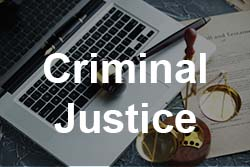
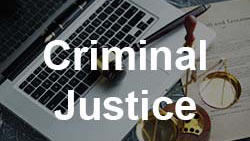
crop program iamges, remove button tags from program links

diff --git a/programs.html b/programs.html
@@ -16,22 +16,18 @@
     ::-webkit-scrollbar {
       width: 10px;
     }
-    
     /* Track */
     ::-webkit-scrollbar-track {
       background: #f1f1f1; 
     }
-     
     /* Handle */
     ::-webkit-scrollbar-thumb {
       background: #888; 
     }
-    
     /* Handle on hover */
     ::-webkit-scrollbar-thumb:hover {
       background: #555; 
     }
-    
     .programs_buttons::before{
   content: "";
   position: absolute;
@@ -55,13 +51,11 @@ background: -moz-linear-gradient(top,  #ffffff 35%, #c16e70 100%); /* FF3.6-15 *
 background: -webkit-linear-gradient(top,  #ffffff 35%,#c16e70 100%); /* Chrome10-25,Safari5.1-6 */
 background: linear-gradient(to bottom,  #ffffff 35%,#c16e70 100%); /* W3C, IE10+, FF16+, Chrome26+, Opera12+, Safari7+ */
 filter: progid:DXImageTransform.Microsoft.gradient( startColorstr='#ffffff', endColorstr='#c16e70',GradientType=0 ); /* IE6-9 */
-
   -webkit-transform: scaleX(1);
   transform: scaleX(1);
   transition: -webkit-transform .6s cubic-bezier(.08, .35, .13, 1.02), opacity .4s;
   transition: transform .6s cubic-bezier(.08, .35, .13, 1.02), opacity;
 }
-
 .programs_buttons {
   font-family: "Open Sans", sans-serif;
   font-size: 13px;
@@ -78,25 +72,13 @@ filter: progid:DXImageTransform.Microsoft.gradient( startColorstr='#ffffff', end
   -webkit-user-select: none;
   touch-action: manipulation;
 }
-
-
 .programs_buttons:active {
   box-shadow: 0px 0px 0px 0px;
   top: 5px;
   left: 5px;
 }
-
-
-
-
-
 </style>
-
-    
-    
 </head>
-
-
 <body>
   <header id="masthead">   
     <img src="img/students.jpg" alt="Welcome to the library" class="hero">
@@ -151,110 +133,92 @@ filter: progid:DXImageTransform.Microsoft.gradient( startColorstr='#ffffff', end
   
 
   <dl class="tabs pill">
-    
-   
-    <button class="programs_buttons">
-      <a href="#account">
+ <dd class="programs_buttons">
+    <a href="#account" >
         Accounting Administration/Business Administration
       </a>
-    </button>
-
-    <button class="programs_buttons">
-      <a href="#cad">
+</dd>
+<dd class="programs_buttons">
+      <a href="#cad" >
         Computer Aided Drafting
       </a>
-    </button>
-
-    <button class="programs_buttons">
-      <a href="#computerp">
+    </dd>
+    <dd class="programs_buttons">
+    <a href="#computerp">
         Computer Programming/Information Technology
-      </a>
-    </button>
-    
-    <button class="programs_buttons">
-      <a href="#crimjust">
+      </a></dd>
+  <dd class="programs_buttons">
+      <a href="#crimjust" >
         Criminal Justice
       </a>
-    </button>
+    </dd>
 
-    <button class="programs_buttons">
-      <a href="#culinary">
+    <dd class="programs_buttons">
+      <a href="#culinary" >
         Culinary Arts
       </a>
-    </button>
-
-    <button class="programs_buttons">
-      <a href="#electronics">
+ </dd>
+<dd class="programs_buttons">
+   
+      <a href="#electronics" >
         Electronics
       </a>
-    </button>
-    
-
-    <button class="programs_buttons">
-      <a href="#english">
+</dd>
+<dd class="programs_buttons">
+      <a href="#english" >
         English
       </a>
-    </button>
-
-    <button class="programs_buttons">
-      <a href="#gdesign">
+ </dd>
+ <dd class="programs_buttons">
+      <a href="#gdesign" >
         Graphic Design
       </a>
-    </button>
-
-    <button class="programs_buttons">
-      <a href="#host">
+  </dd>
+  <dd class="programs_buttons">
+      <a href="#host" >
         Hospitality/Travel
       </a>
-    </button>
-
-    <button class="programs_buttons">
-      <a href="#HVAC">
+    </dd>
+    <dd class="programs_buttons">
+      <a href="#HVAC" >
         HVAC
       </a>
-    </button>
-
-    <button class="programs_buttons">
-      <a href="#math">
+    </dd>
+    <dd class="programs_buttons">
+      <a href="#math" >
         Mathematics
       </a>
-    </button>
-
-    <button class="programs_buttons">
+    </dd>
+    <dd class="programs_buttons">
       <a href="#med">
         Medical/Nursing
       </a>
-    </button>
-
-    <button class="programs_buttons">
+    </dd>
+    <dd class="programs_buttons">
       <a href="#mm">
         Multimedia
       </a>
-    </button>
-
-    <button class="programs_buttons">
-      <a href="#smartbt">
+    </dd>
+    <dd class="programs_buttons">
+      <a href="#smartbt" >
         Smart Building Technology
       </a>
-    </button>
-  
-    <button class="programs_buttons">
-      <a href="#massage">
+    </dd>
+    <dd class="programs_buttons">
+      <a href="#massage" >
         Therapeutic Massage
       </a>
-    </button>
-
-    <button class="programs_buttons">
-      <a href="#weld">
+    </dd>
+    <dd class="programs_buttons">
+      <a href="#weld" >
         Welding
       </a>
-    </button>
-  
-    <button class="programs_buttons">
-      <a href="#gen">
+    </dd>
+    <dd class="programs_buttons">
+      <a href="#gen" >
         General Interest
       </a>
-    </button>
+   </dd>
     
   </dl>
 

diff --git a/css/style.css b/css/style.css
@@ -475,15 +475,19 @@ font-style: italic;
 			margin-bottom:1rem;
 		}
 		.programs_buttons{
-			margin-bottom:1rem;
+			margin:1rem;
 			/* Permalink - use to edit and share this gradient: https://colorzilla.com/gradient-editor/#00588e+1,ffffff+42,ffffff+42,ffffff+53,ffffff+68 */
 background: #00588e; /* Old browsers */
 background: -moz-linear-gradient(top,  #00588e 1%, #ffffff 42%, #ffffff 42%, #ffffff 53%, #ffffff 68%); /* FF3.6-15 */
 background: -webkit-linear-gradient(top,  #00588e 1%,#ffffff 42%,#ffffff 42%,#ffffff 53%,#ffffff 68%); /* Chrome10-25,Safari5.1-6 */
 background: linear-gradient(to bottom,  #00588e 1%,#ffffff 42%,#ffffff 42%,#ffffff 53%,#ffffff 68%); /* W3C, IE10+, FF16+, Chrome26+, Opera12+, Safari7+ */
 filter: progid:DXImageTransform.Microsoft.gradient( startColorstr='#00588e', endColorstr='#ffffff',GradientType=0 ); /* IE6-9 */
-			
+		
 		}
+		.programs_button a:hover{
+			background-color:#C16E70 !important;
+		}
+
 		.tabs.pill{
 			text-align:center;
 			margin:auto;
@@ -504,7 +508,7 @@ dd {
 .tabs.pill dd, .tabs.pill li {
 margin-right: 10px;
 }
-dl.tabs.pill>dd.active a, dl.tabs.pill>dd.active:hover a {
+.program__button:hover a{
 	border: 1px solid #fff;
 	color: white;
 	background: #151e3f;

diff --git a/js/script.js b/js/script.js
@@ -46,11 +46,7 @@
  
 
 // Query Selectors //
-
-  
-
   navbutton.addEventListener("click", navclicked);
-
   detectsize();
 
 
